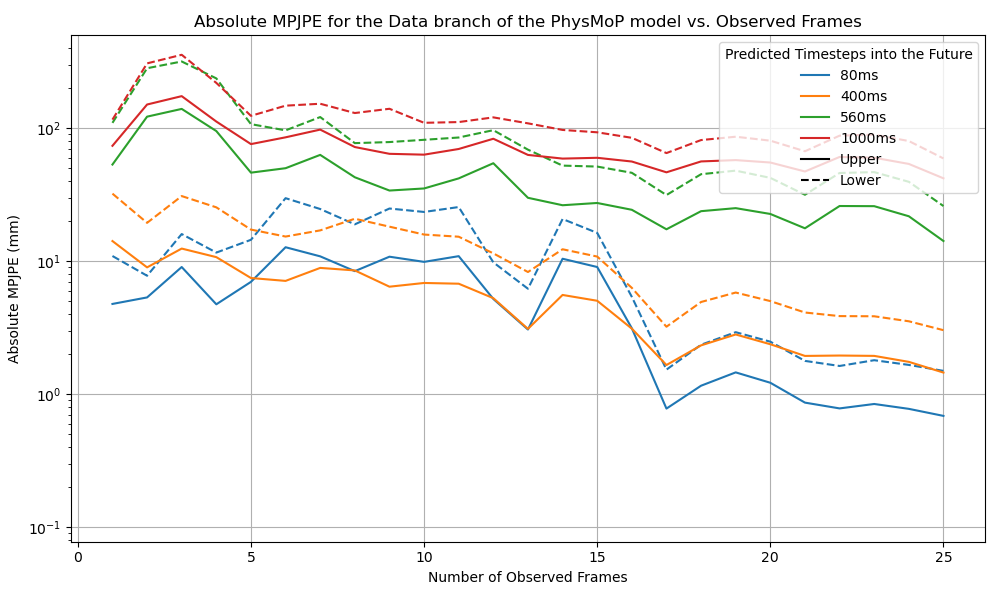
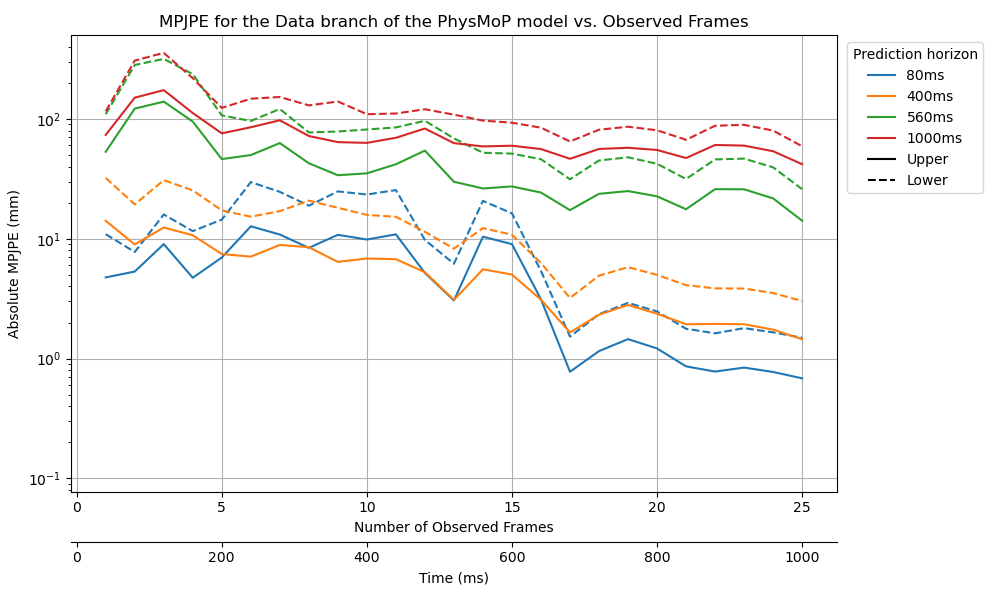
Add additional x-axis ticks, and move legend

diff --git a/exps/run/eval_upper_lower.py b/exps/run/eval_upper_lower.py
@@ -11,7 +11,7 @@ static_actions = ["sitting", "sittingdown", "posing"]
 combination_actions =["Discussion", "Directions", "Phoning", "Eating", "Waiting"]
 dynamic_actions = ["walking", "walkingtogether", "walkingdog", "greeting"]
 
-def plot_and_save(upper_data, lower_data, model_name, branch, x_vals, colors, y_limits = None):
+def plot_and_save(upper_data, lower_data, model_name, branch, x_vals, colors, y_limits = None, fps = 25, time_unit="ms"):
     plt.figure(figsize=(10,6))
     for i, label in enumerate(["80ms", "400ms", "560ms", "1000ms"]):
         plt.plot(x_vals, upper_data[:, i], label=f"{label} (Upper)", color=colors[i], linestyle='-')
@@ -20,9 +20,35 @@ def plot_and_save(upper_data, lower_data, model_name, branch, x_vals, colors, y_
     plt.xlabel("Number of Observed Frames")
     plt.ylabel("Absolute MPJPE (mm)")
     if model_name == "GCNext":
-        plt.title(f"Absolute MPJPE for the {model_name} model vs. Observed Frames")
+        plt.title(f"MPJPE for the {model_name} model vs. Observed Frames")
     else:
-        plt.title(f"Absolute MPJPE for the {branch} branch of the {model_name} model vs. Observed Frames")
+        plt.title(f"MPJPE for the {branch} branch of the {model_name} model vs. Observed Frames")
+    
+    # add secondary x-axis for time
+    ax = plt.gca()
+    # map frames -> time (seconds) and inverse
+    forward = lambda frames: (frames) / float(fps)   # frame index -> seconds (frame 1 -> time 0)
+    inverse = lambda seconds: seconds * float(fps)  # seconds -> frame index
+
+    secax = ax.secondary_xaxis('bottom', functions=(forward, inverse))
+    secax.spines['bottom'].set_position(('outward', 36))
+
+    # Align secondary ticks exactly with primary ticks (prevents horizontal offset)
+    prim_ticks = ax.get_xticks()
+    sec_ticks = forward(np.asarray(prim_ticks))
+    secax.set_xticks(sec_ticks)
+    # Ensure secondary axis covers the exact transformed visible range of the primary axis
+    secax.set_xlim(forward(ax.get_xlim()[0]), forward(ax.get_xlim()[1]))
+
+    if time_unit == 'ms':
+        secax.set_xlabel(f"Time (ms)")
+        # show ticks in milliseconds
+        secax.xaxis.set_major_formatter(plt.FuncFormatter(lambda x, pos: f"{x*1000:.0f}"))
+    else:
+        secax.set_xlabel(f"Time (s)")
+        secax.xaxis.set_major_formatter(plt.FuncFormatter(lambda x, pos: f"{x:.2f}"))
+
+    fig = plt.gcf()
 
     # First legend
     first_line = Line2D([], [], color=colors[0], linestyle='-', linewidth=1.5, label='80ms')
@@ -49,8 +75,8 @@ def plot_and_save(upper_data, lower_data, model_name, branch, x_vals, colors, y_
         handles=all_handles,
         labels=all_labels,
         loc='upper right',
-        # bbox_to_anchor=(1.6, 1.0),
-        title='Predicted Timesteps into the Future'
+        bbox_to_anchor=(1.2, 1),
+        title='Prediction horizon'
     )
     plt.grid(True)
     plt.tight_layout()
@@ -155,5 +181,5 @@ plot_and_save(upper_fusion, lower_fusion, "PhysMoP", "Fusion", x_vals, colors, y
 x_vals = np.arange(1, len(upper_gcn) + 1)
 print(upper_gcn.shape, lower_gcn.shape)
 plot_and_save(upper_gcn, lower_gcn, "GCNext", "Data", x_vals, colors, y_limits)
-plot_and_save(upper_gcn_on_amass, lower_gcn_on_amass, "GCNext on AMASS", "Data on AMASS", x_vals, colors, y_limits)
+plot_and_save(upper_gcn_on_amass, lower_gcn_on_amass, "GCNext_on_AMASS", "Data_on_AMASS", x_vals, colors, y_limits)
 plot_and_save(upper_data_longer, lower_data_longer, "PhysMoP", "Data (Longer)", x_vals, colors, y_limits)
